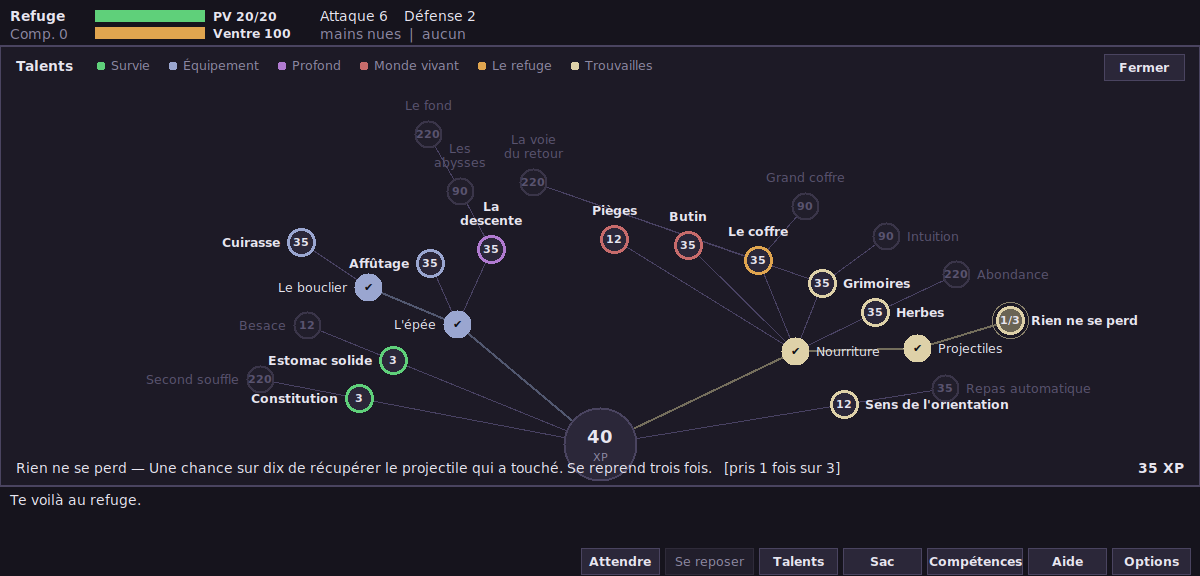
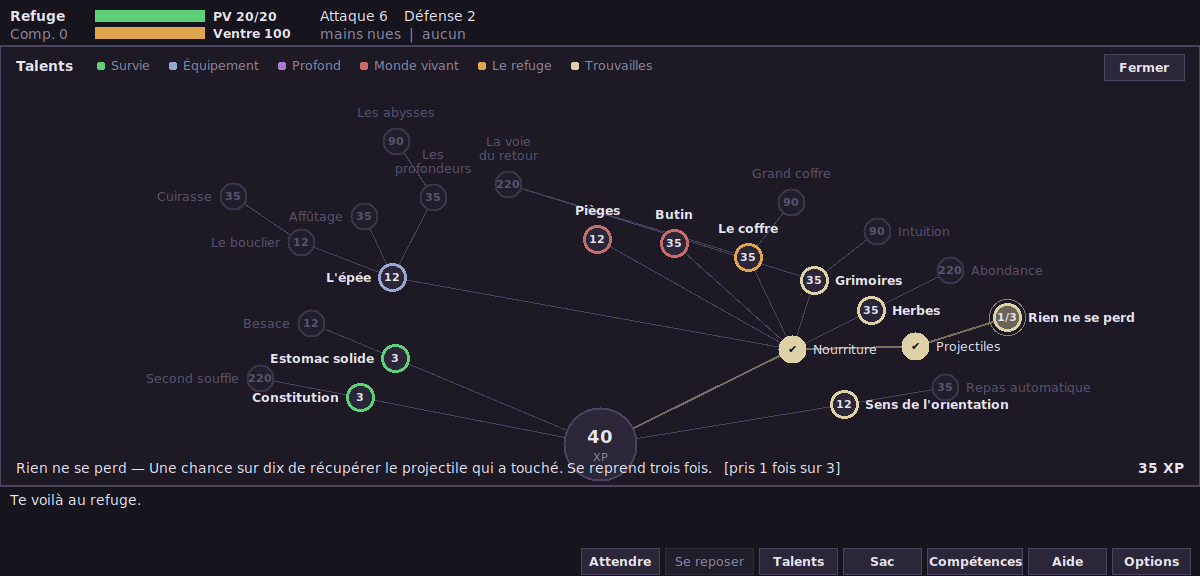
Le donjon s'achète par tranches de dix, avec une marche à chaque tranche
Dix étages au départ, « Les profondeurs » en ouvre dix de plus, « Les
abysses » dix encore. Et la difficulté cesse d'être une pente régulière :
chaque tranche franchie fait monter les créatures d'un cran sec — ×2,32 au
onzième étage contre ×1,54 au dixième, ×4,63 au vingt-et-unième. Ouvrir la
suite du donjon doit se sentir au premier pas, pas au dixième.

Le palier et son facteur sont deux champs de RunConfig, donc réglables sans
toucher au moteur.

Ces deux nœuds sont hors de portée du bot, qui meurt vers l'étage 5 :
aucune campagne ne peut dire s'ils sont bien prix, et je préfère l'écrire
que le laisser croire. C'est un test unitaire qui tient la marche — le
premier étage d'une tranche doit coûter plus cher que trois étages de
pente.

Claude-Session: https://claude.ai/code/session_018UFaHGxRzxn1yYEEvUBBBk

diff --git a/donjon/tree.py b/donjon/tree.py
@@ -30,11 +30,10 @@ sur les objets concernés. Le moteur ne bouge pas.
 
 #: Ce qu'une partie vaut avant tout déblocage : un donjon nu.
 BASE_VERROUILLEE = {
-    # Le donjon s'arrête tôt tant qu'on ne l'a pas ouvert : sans cela, un
-    # étage vide se traverse jusqu'au fond, et le multiplicateur de profondeur
-    # paie une descente qui n'a couru aucun risque. Mesuré : 44 XP par vie en
-    # marchant dans le vide, contre 16 une fois les créatures réveillées.
-    "max_depth": 8,
+    # Le donjon s'achète par tranches de dix étages, et chaque tranche
+    # franchie fait monter les créatures d'un cran (voir `palier_scaling`) :
+    # ouvrir la suite du donjon doit se sentir au premier pas.
+    "max_depth": 10,
     "monsters_per_floor": (0, 0),
     "items_per_floor": (0, 0),
     "traps_per_floor": (0, 0),
@@ -198,17 +197,14 @@ _enregistrer(
           branche="Le refuge", parents=("coffre",), effets={"coffre_places": 4}),
 
     # --- Profond ----------------------------------------------------------
-    Noeud("descente", "La descente", 35,
-          "L'escalier s'enfonce plus loin : quinze étages au lieu de huit.",
+    Noeud("profondeurs", "Les profondeurs", 35,
+          "Dix étages de plus. Ce qui les habite est d'un autre calibre : "
+          "passé le dixième, les créatures changent de classe.",
           branche="Profond", parents=("epee",),
-          reglages={"max_depth": 15}),
+          reglages={"max_depth": 20}),
     Noeud("abysses", "Les abysses", 90,
-          "Vingt-deux étages. Ce qui vit là n'a jamais vu le jour.",
-          branche="Profond", parents=("descente",),
-          reglages={"max_depth": 22}),
-    Noeud("le_fond", "Le fond", 220,
-          "Trente étages, et le bout du donjon.",
-          branche="Profond", parents=("abysses",),
+          "Dix étages encore, et la même marche à franchir. Peu remontent.",
+          branche="Profond", parents=("profondeurs",),
           reglages={"max_depth": 30}),
     Noeud("voie_du_retour", "La voie du retour", 220,
           "L'orbe de retour apparaît à partir du quatrième étage.",

diff --git a/donjon/game.py b/donjon/game.py
@@ -172,12 +172,16 @@ class Game:
         return monster
 
     def _scale_to_depth(self, monster):
-        """Les créatures s'endurcissent avec l'étage.
+        """Les créatures s'endurcissent avec l'étage, par pente et par marche.
 
         Sans ça, un donjon de 30 étages n'aurait plus rien à offrir passé le
-        huitième : le bestiaire s'arrête là.
+        huitième : le bestiaire s'arrête là. La pente est régulière ; la marche
+        tombe à chaque tranche d'étages achetée, pour qu'ouvrir la suite du
+        donjon se sente au premier pas et pas au dixième.
         """
-        facteur = 1 + self.config.monster_scaling * (self.depth - 1)
+        franchis = (self.depth - 1) // max(1, self.config.palier)
+        facteur = ((1 + self.config.monster_scaling * (self.depth - 1))
+                   * self.config.palier_scaling ** franchis)
         monster.base_max_hp = max(1, int(round(monster.base_max_hp * facteur)))
         monster.base_attack = max(1, int(round(monster.base_attack * facteur)))
         monster.base_defense = int(round(monster.base_defense * facteur))

diff --git a/tests/test_run.py b/tests/test_run.py
@@ -44,9 +44,18 @@ class TestProfondeurRecompensee(unittest.TestCase):
 
     def test_sans_mise_a_l_echelle_les_monstres_restent_identiques(self):
         game = sandbox(seed=5)
-        game.config = game.config.replace(monster_scaling=0)
+        game.config = game.config.replace(monster_scaling=0, palier_scaling=1)
         self.assertEqual(self._gobelin(game, 20).max_hp,
                          self._gobelin(game, 1).max_hp)
+
+    def test_chaque_tranche_d_etages_fait_une_marche(self):
+        """Ouvrir la suite du donjon doit se sentir au premier pas."""
+        game = sandbox(seed=5)
+        palier = game.config.palier
+        dernier_du_haut = self._gobelin(game, palier).max_hp
+        premier_du_bas = self._gobelin(game, palier + 1).max_hp
+        pente = self._gobelin(game, palier).max_hp - self._gobelin(game, palier - 1).max_hp
+        self.assertGreater(premier_du_bas - dernier_du_haut, pente * 3)
 
 
 class TestFinDeRun(unittest.TestCase):

diff --git a/donjon/config.py b/donjon/config.py
@@ -45,6 +45,8 @@ class RunConfig:
         xp_depth_bonus=0.15,
         monster_scaling=0.06,
         hunger_scaling=0.05,
+        palier=10,
+        palier_scaling=1.45,
         max_fullness=100,
         start_hp=20,
         start_attack=6,
@@ -74,6 +76,11 @@ class RunConfig:
         # La faim se creuse avec la profondeur : sans cela, un donjon qu'on
         # n'a rien débloqué pour peupler se traverse à pied jusqu'au bout.
         self.hunger_scaling = hunger_scaling
+        # Les étages s'achètent par tranches, et chaque tranche franchie fait
+        # marcher les créatures d'un cran — la profondeur n'est pas une pente
+        # régulière, c'est un escalier.
+        self.palier = palier
+        self.palier_scaling = palier_scaling
         self.max_fullness = max_fullness
         self.start_hp = start_hp
         self.start_attack = start_attack

diff --git a/docs/plan-incremental.md b/docs/plan-incremental.md
@@ -712,10 +712,27 @@ que sa classe de guerriers, et exige « Nourriture » : on ne peut pas armer des
 créatures avant qu'il y en ait.
 
 Sous cette forme, la série est monotone **avec ou sans** fond de donjon (13,8
-contre 14,0) : le remède de la profondeur n'est donc plus un correctif. Il est
-conservé comme dessin — l'escalier qui s'arrête à l'étage 8 donne un sommet à
-atteindre aux premières heures, et trois nœuds pour le repousser — mais c'est
-un choix, plus une nécessité.
+contre 14,0) : le remède de la profondeur n'est donc plus un correctif. Il reste
+comme dessin, et il a pris sa forme définitive — **le donjon s'achète par
+tranches de dix étages** : dix au départ, « Les profondeurs » en ouvre dix de
+plus, « Les abysses » dix encore.
+
+Et chaque tranche franchie fait **une marche**, pas une pente : au-delà du
+dixième étage les créatures gagnent d'un coup 45 %, et autant au vingt-et-
+unième. Ouvrir la suite du donjon doit se sentir au premier pas, pas au dixième.
+
+| étage | créatures |
+|---|---|
+| 10 | ×1,54 |
+| **11** | **×2,32** |
+| 20 | ×3,10 |
+| **21** | **×4,63** |
+| 30 | ×5,76 |
+
+Ces deux nœuds sont hors de portée du bot, qui meurt vers l'étage 5 : aucune
+campagne ne peut donc dire s'ils sont bien prix. C'est un test unitaire qui
+tient la marche — le premier étage d'une tranche doit coûter plus cher que
+trois étages de pente.
 
 **Le défaut que tout cela corrigeait, pour mémoire.** « Nourriture » à 3 XP rendait le donjon vide *survivable* : le bot le
 traversait jusqu'à l'étage 26 sans rencontrer âme qui vive, et le multiplicateur
